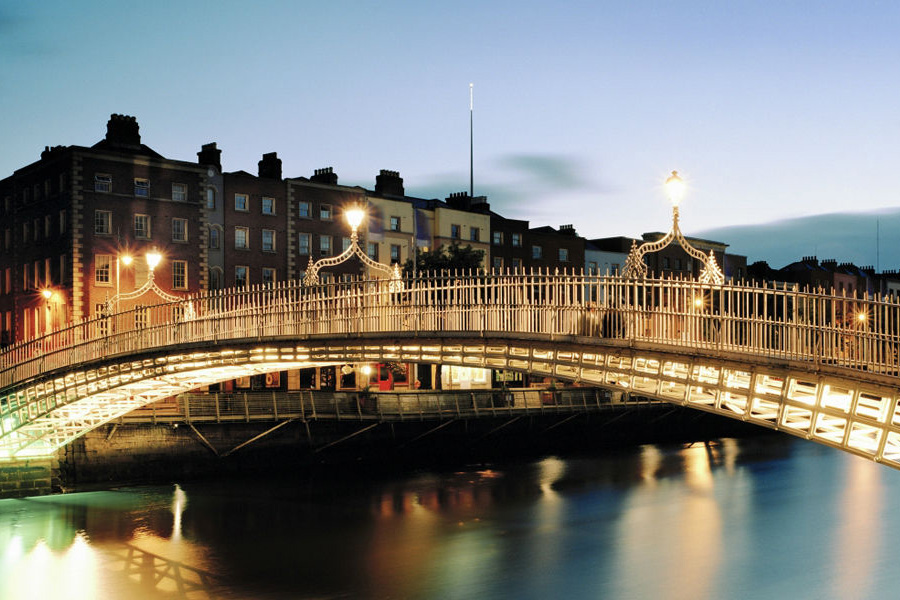
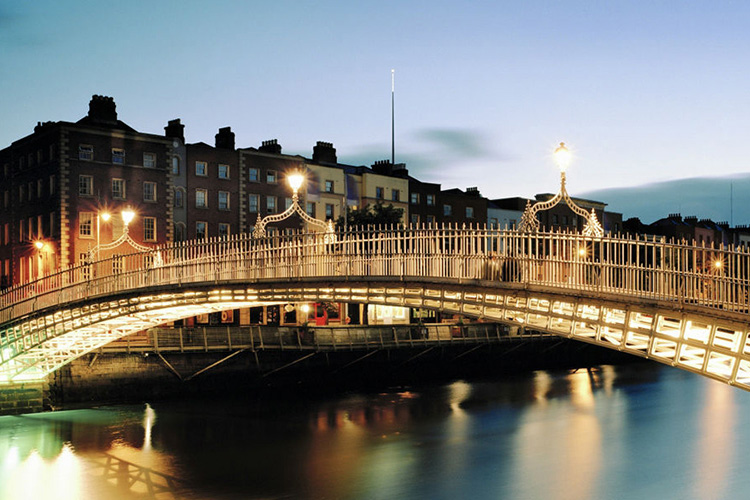
Image Optimization with optimizilla.com

diff --git a/resources/css/style.css b/resources/css/style.css
@@ -209,8 +209,8 @@ input[type=submit]{
 
 
 header {
-    background-image: -webkit-gradient(linear, left top, left bottom, from(rgba(0,0,0,0.7)), to(rgba(0, 0, 0, 0.7))),url(img/hero.jpg);
-    background-image: linear-gradient(rgba(0,0,0,0.7), rgba(0, 0, 0, 0.7)),url(img/hero.jpg);
+    background-image: -webkit-gradient(linear, left top, left bottom, from(rgba(0,0,0,0.7)), to(rgba(0, 0, 0, 0.7))),url(img/hero-min.jpg);
+    background-image: linear-gradient(rgba(0,0,0,0.7), rgba(0, 0, 0, 0.7)),url(img/hero-min.jpg);
     background-size: cover;
     background-position: center;
     height: 100vh;
@@ -445,8 +445,8 @@ header {
 -----------------------------------------*/
 
 .section-testimonials {
-    background-image: -webkit-gradient(linear, left top, left bottom, from(rgba(0, 0, 0, 0.8)), to(rgba(0, 0, 0, 0.8))),url(img/back-customers.jpg);
-    background-image: linear-gradient(rgba(0, 0, 0, 0.8), rgba(0, 0, 0, 0.8)),url(img/back-customers.jpg);
+    background-image: -webkit-gradient(linear, left top, left bottom, from(rgba(0, 0, 0, 0.8)), to(rgba(0, 0, 0, 0.8))),url(img/back-customers-min.jpg);
+    background-image: linear-gradient(rgba(0, 0, 0, 0.8), rgba(0, 0, 0, 0.8)),url(img/back-customers-min.jpg);
     background-size: cover;
     color: #fff;
     background-attachment: fixed;
